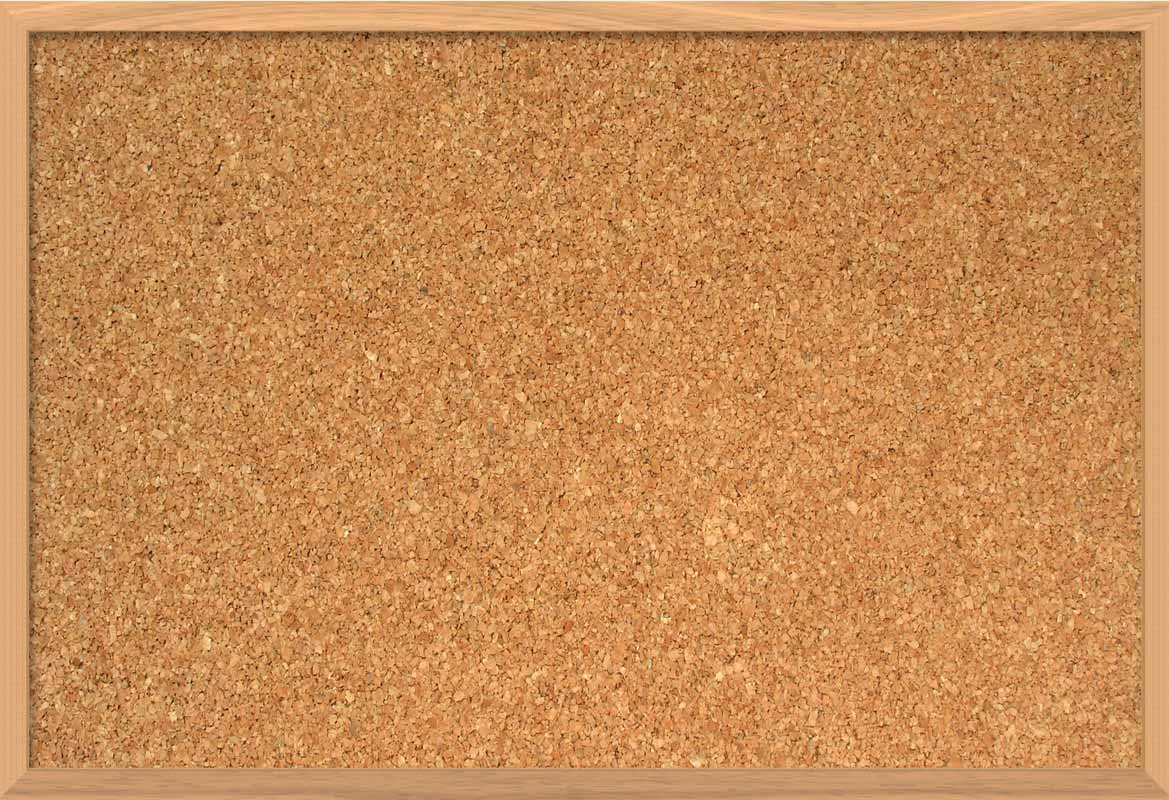
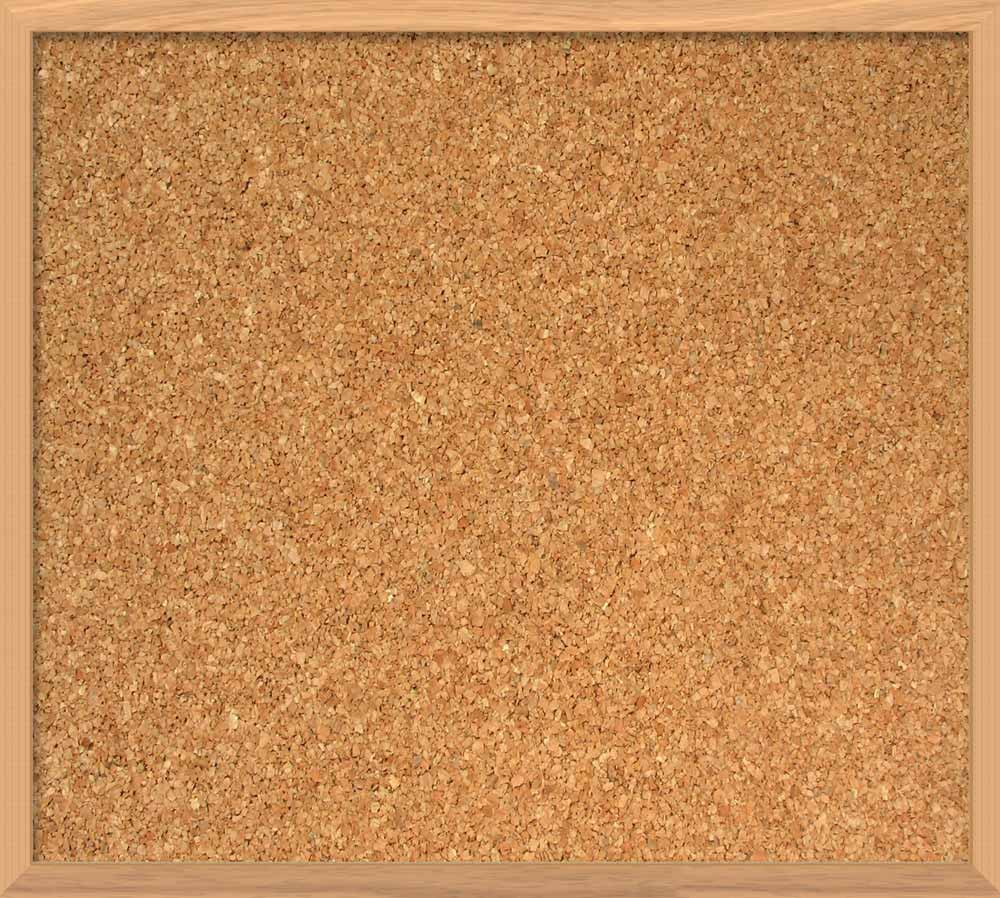
Implemented new font, redesigned title and home for layout

diff --git a/public/css/application.css b/public/css/application.css
@@ -1,5 +1,5 @@
 body {
-  background: url(/images/corkboard.jpg) no-repeat center center fixed;
+  background: url(/images/corkboard2.jpg);
   -webkit-background-size: cover;
   -moz-background-size: cover;
   -o-background-size: cover;
@@ -19,17 +19,20 @@ input {
 }
 
 nav {
-  background-color: rgb(25, 187, 201);
+  /*background-color: rgb(25, 187, 201);*/
+  font-family: "Holtwood One SC";
   margin: none;
-  padding: 0 15px;
+  /*padding: 0 15px;*/
   height: 50px;
   position: relative;
 }
 
 nav h1 {
-  margin: 0;
-  padding: 5px;
-  float: left;
+  /*margin: 0;*/
+  margin-top: -.2em;
+  margin-left: 10%;
+  /*padding: 5px;*/
+  /*float: left;*/
 }
 
 nav a {
